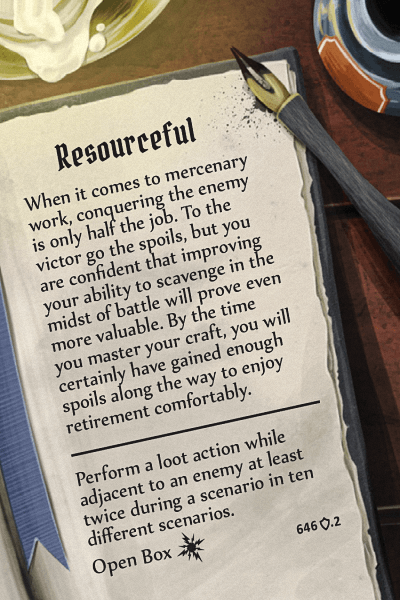
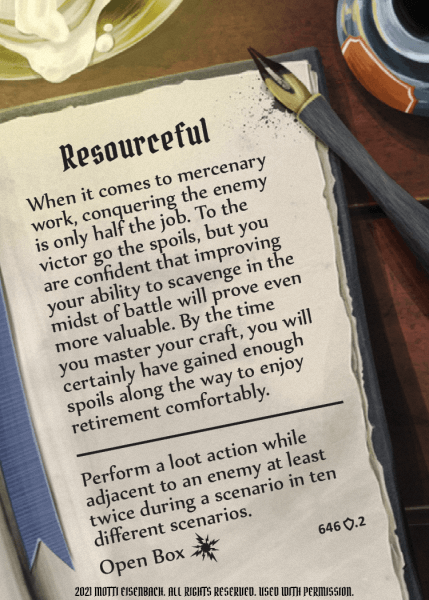
Implement New TOA PQ Assets with Copyright, Standardized Sizes & Asset Numbers

diff --git a/data/personal-quests.js b/data/personal-quests.js
@@ -1824,122 +1824,267 @@
     "assetno": "###"
   },
   {
-    "name": "toa-pq-back",
+    "name": "toa-pq-641.png",
     "points": 228,
     "expansion": "trail of ashes",
-    "image": "personal-quests/trail-of-ashes/toa-pq-back.png",
-    "xws": "toapqback"
-  },  
+    "image": "personal-quests/trail-of-ashes/toa-pq-641.png",
+    "xws": "toapq641png",
+    "assetno": "641"
+  },
   {
-    "name": "toa-pq-641",
+    "name": "641",
     "points": 229,
     "expansion": "trail of ashes",
     "image": "personal-quests/trail-of-ashes/toa-pq-641.png",
-    "xws": "toapq641"
+    "xws": "toapq641png",
+    "assetno": "641"
   },
   {
     "name": "grave robber",
     "points": 230,
     "expansion": "trail of ashes",
     "image": "personal-quests/trail-of-ashes/toa-pq-641.png",
-    "xws": "toapq641"
+    "xws": "graverobber",
+    "assetno": "641"
   },
   {
-    "name": "toa-pq-642",
+    "name": "641",
     "points": 231,
     "expansion": "trail of ashes",
-    "image": "personal-quests/trail-of-ashes/toa-pq-642.png",
-    "xws": "toapq642"
+    "image": "personal-quests/trail-of-ashes/toa-pq-641.png",
+    "xws": "graverobber",
+    "assetno": "641"
   },
   {
-    "name": "stand as one",
+    "name": "toa-pq-642.png",
     "points": 232,
     "expansion": "trail of ashes",
     "image": "personal-quests/trail-of-ashes/toa-pq-642.png",
-    "xws": "toapq642"
+    "xws": "toapq642png",
+    "assetno": "642"
   },
   {
-    "name": "toa-pq-643",
+    "name": "642",
     "points": 233,
     "expansion": "trail of ashes",
+    "image": "personal-quests/trail-of-ashes/toa-pq-642.png",
+    "xws": "toapq642png",
+    "assetno": "642"
+  },
+  {
+    "name": "stand as one",
+    "points": 234,
+    "expansion": "trail of ashes",
+    "image": "personal-quests/trail-of-ashes/toa-pq-642.png",
+    "xws": "standasone",
+    "assetno": "642"
+  },
+  {
+    "name": "642",
+    "points": 235,
+    "expansion": "trail of ashes",
+    "image": "personal-quests/trail-of-ashes/toa-pq-642.png",
+    "xws": "standasone",
+    "assetno": "642"
+  },
+  {
+    "name": "toa-pq-643.png",
+    "points": 236,
+    "expansion": "trail of ashes",
     "image": "personal-quests/trail-of-ashes/toa-pq-643.png",
-    "xws": "toapq643"
+    "xws": "toapq643png",
+    "assetno": "643"
+  },
+  {
+    "name": "643",
+    "points": 237,
+    "expansion": "trail of ashes",
+    "image": "personal-quests/trail-of-ashes/toa-pq-643.png",
+    "xws": "toapq643png",
+    "assetno": "643"
   },
   {
     "name": "false dichotomies",
-    "points": 234,
+    "points": 238,
     "expansion": "trail of ashes",
     "image": "personal-quests/trail-of-ashes/toa-pq-643.png",
-    "xws": "toapq643"
+    "xws": "falsedichotomies",
+    "assetno": "643"
   },
   {
-    "name": "toa-pq-644",
-    "points": 235,
+    "name": "643",
+    "points": 239,
+    "expansion": "trail of ashes",
+    "image": "personal-quests/trail-of-ashes/toa-pq-643.png",
+    "xws": "falsedichotomies",
+    "assetno": "643"
+  },
+  {
+    "name": "toa-pq-644.png",
+    "points": 240,
     "expansion": "trail of ashes",
     "image": "personal-quests/trail-of-ashes/toa-pq-644.png",
-    "xws": "toapq644"
+    "xws": "toapq644png",
+    "assetno": "644"
+  },
+  {
+    "name": "644",
+    "points": 241,
+    "expansion": "trail of ashes",
+    "image": "personal-quests/trail-of-ashes/toa-pq-644.png",
+    "xws": "toapq644png",
+    "assetno": "644"
   },
   {
     "name": "shared suffering",
-    "points": 236,
+    "points": 242,
     "expansion": "trail of ashes",
     "image": "personal-quests/trail-of-ashes/toa-pq-644.png",
-    "xws": "toapq644"
+    "xws": "sharedsuffering",
+    "assetno": "644"
   },
   {
-    "name": "toa-pq-645",
-    "points": 237,
+    "name": "644",
+    "points": 243,
+    "expansion": "trail of ashes",
+    "image": "personal-quests/trail-of-ashes/toa-pq-644.png",
+    "xws": "sharedsuffering",
+    "assetno": "644"
+  },
+  {
+    "name": "toa-pq-645.png",
+    "points": 244,
     "expansion": "trail of ashes",
     "image": "personal-quests/trail-of-ashes/toa-pq-645.png",
-    "xws": "toapq645"
+    "xws": "toapq645png",
+    "assetno": "645"
+  },
+  {
+    "name": "645",
+    "points": 245,
+    "expansion": "trail of ashes",
+    "image": "personal-quests/trail-of-ashes/toa-pq-645.png",
+    "xws": "toapq645png",
+    "assetno": "645"
   },
   {
     "name": "speed is king",
-    "points": 238,
+    "points": 246,
     "expansion": "trail of ashes",
     "image": "personal-quests/trail-of-ashes/toa-pq-645.png",
-    "xws": "toapq645"
+    "xws": "speedisking",
+    "assetno": "645"
   },
   {
-    "name": "toa-pq-646",
-    "points": 239,
+    "name": "645",
+    "points": 247,
+    "expansion": "trail of ashes",
+    "image": "personal-quests/trail-of-ashes/toa-pq-645.png",
+    "xws": "speedisking",
+    "assetno": "645"
+  },
+  {
+    "name": "toa-pq-646.png",
+    "points": 248,
     "expansion": "trail of ashes",
     "image": "personal-quests/trail-of-ashes/toa-pq-646.png",
-    "xws": "toapq646"
+    "xws": "toapq646png",
+    "assetno": "646"
+  },
+  {
+    "name": "646",
+    "points": 249,
+    "expansion": "trail of ashes",
+    "image": "personal-quests/trail-of-ashes/toa-pq-646.png",
+    "xws": "toapq646png",
+    "assetno": "646"
   },
   {
     "name": "resourceful",
-    "points": 240,
+    "points": 250,
     "expansion": "trail of ashes",
     "image": "personal-quests/trail-of-ashes/toa-pq-646.png",
-    "xws": "toapq646"
+    "xws": "resourceful",
+    "assetno": "646"
   },
   {
-    "name": "toa-pq-647",
-    "points": 241,
+    "name": "646",
+    "points": 251,
+    "expansion": "trail of ashes",
+    "image": "personal-quests/trail-of-ashes/toa-pq-646.png",
+    "xws": "resourceful",
+    "assetno": "646"
+  },
+  {
+    "name": "toa-pq-647.png",
+    "points": 252,
     "expansion": "trail of ashes",
     "image": "personal-quests/trail-of-ashes/toa-pq-647.png",
-    "xws": "toapq647"
+    "xws": "toapq647png",
+    "assetno": "647"
+  },
+  {
+    "name": "647",
+    "points": 253,
+    "expansion": "trail of ashes",
+    "image": "personal-quests/trail-of-ashes/toa-pq-647.png",
+    "xws": "toapq647png",
+    "assetno": "647"
   },
   {
     "name": "close to nature",
-    "points": 242,
+    "points": 254,
     "expansion": "trail of ashes",
     "image": "personal-quests/trail-of-ashes/toa-pq-647.png",
-    "xws": "toapq647"
+    "xws": "closetonature",
+    "assetno": "647"
   },
   {
-    "name": "toa-pq-648",
-    "points": 243,
+    "name": "647",
+    "points": 255,
+    "expansion": "trail of ashes",
+    "image": "personal-quests/trail-of-ashes/toa-pq-647.png",
+    "xws": "closetonature",
+    "assetno": "647"
+  },
+  {
+    "name": "toa-pq-648.png",
+    "points": 256,
     "expansion": "trail of ashes",
     "image": "personal-quests/trail-of-ashes/toa-pq-648.png",
-    "xws": "toapq648"
+    "xws": "toapq648png",
+    "assetno": "648"
+  },
+  {
+    "name": "648",
+    "points": 257,
+    "expansion": "trail of ashes",
+    "image": "personal-quests/trail-of-ashes/toa-pq-648.png",
+    "xws": "toapq648png",
+    "assetno": "648"
   },
   {
     "name": "in good time",
-    "points": 244,
+    "points": 258,
     "expansion": "trail of ashes",
     "image": "personal-quests/trail-of-ashes/toa-pq-648.png",
-    "xws": "toapq648"
+    "xws": "ingoodtime",
+    "assetno": "648"
+  },
+  {
+    "name": "648",
+    "points": 259,
+    "expansion": "trail of ashes",
+    "image": "personal-quests/trail-of-ashes/toa-pq-648.png",
+    "xws": "ingoodtime",
+    "assetno": "648"
+  },
+  {
+    "name": "toa-pq-back.png",
+    "points": 260,
+    "expansion": "trail of ashes",
+    "image": "personal-quests/trail-of-ashes/toa-pq-back.png",
+    "xws": "toapqbackpng",
+    "assetno": "###"
   }
 ]

diff --git a/index.html b/index.html
@@ -19396,12 +19396,15 @@
 					<h1><i class="fa fa-plus"></i> Personal Quests </h1>
 					<div class="textzone">
 						<table class="table-padded">
-							<tr><td>toa-pq-back</td></tr>
-							<tr><td>&nbsp</td></tr>
-							<tr><td>toa-pq-641 | Grave Robber     </td><td>toa-pq-645 | Speed Is King  </td></tr>
-							<tr><td>toa-pq-642 | Stand As One     </td><td>toa-pq-646 | Resourceful    </td></tr>
-							<tr><td>toa-pq-643 | False Dichotomies</td><td>toa-pq-647 | Close To Nature</td></tr>
-							<tr><td>toa-pq-644 | Shared Suffering </td><td>toa-pq-648 | In Good Time   </td></tr>
+							<tr><td class="td-bu">Asset Back</td><td class="td-bu">Asset Name</td><td class="td-bu">Asset Name</td><td class="td-bu">Asset #</td></tr>
+							<tr><td>toa-pq-back</td><td>toa-pq-641</td><td>Grave Robber     </td><td>641</td></tr>
+							<tr><td>&nbsp      </td><td>toa-pq-642</td><td>Stand As One     </td><td>642</td></tr>
+							<tr><td>&nbsp      </td><td>toa-pq-643</td><td>False Dichotomies</td><td>643</td></tr>
+							<tr><td>&nbsp      </td><td>toa-pq-644</td><td>Shared Suffering </td><td>644</td></tr>
+							<tr><td>&nbsp      </td><td>toa-pq-645</td><td>Speed Is King    </td><td>645</td></tr>
+							<tr><td>&nbsp      </td><td>toa-pq-646</td><td>Resourceful      </td><td>646</td></tr>
+							<tr><td>&nbsp      </td><td>toa-pq-647</td><td>Close To Nature  </td><td>647</td></tr>
+							<tr><td>&nbsp      </td><td>toa-pq-648</td><td>In Good Time     </td><td>648</td></tr>
 						</table>
 					</div>
 
@@ -20107,12 +20110,15 @@
 					<h1><i class="fa fa-plus"></i> Personal Quests </h1>
 					<div class="textzone">
 						<table class="table-padded">
-							<tr><td>toa-pq-back</td></tr>
-							<tr><td>&nbsp</td></tr>
-							<tr><td>toa-pq-641 | Grave Robber     </td><td>toa-pq-645 | Speed Is King  </td></tr>
-							<tr><td>toa-pq-642 | Stand As One     </td><td>toa-pq-646 | Resourceful    </td></tr>
-							<tr><td>toa-pq-643 | False Dichotomies</td><td>toa-pq-647 | Close To Nature</td></tr>
-							<tr><td>toa-pq-644 | Shared Suffering </td><td>toa-pq-648 | In Good Time   </td></tr>
+							<tr><td class="td-bu">Asset Back</td><td class="td-bu">Asset Name</td><td class="td-bu">Asset Name</td><td class="td-bu">Asset #</td></tr>
+							<tr><td>toa-pq-back</td><td>toa-pq-641</td><td>Grave Robber     </td><td>641</td></tr>
+							<tr><td>&nbsp      </td><td>toa-pq-642</td><td>Stand As One     </td><td>642</td></tr>
+							<tr><td>&nbsp      </td><td>toa-pq-643</td><td>False Dichotomies</td><td>643</td></tr>
+							<tr><td>&nbsp      </td><td>toa-pq-644</td><td>Shared Suffering </td><td>644</td></tr>
+							<tr><td>&nbsp      </td><td>toa-pq-645</td><td>Speed Is King    </td><td>645</td></tr>
+							<tr><td>&nbsp      </td><td>toa-pq-646</td><td>Resourceful      </td><td>646</td></tr>
+							<tr><td>&nbsp      </td><td>toa-pq-647</td><td>Close To Nature  </td><td>647</td></tr>
+							<tr><td>&nbsp      </td><td>toa-pq-648</td><td>In Good Time     </td><td>648</td></tr>
 						</table>
 					</div>
 
